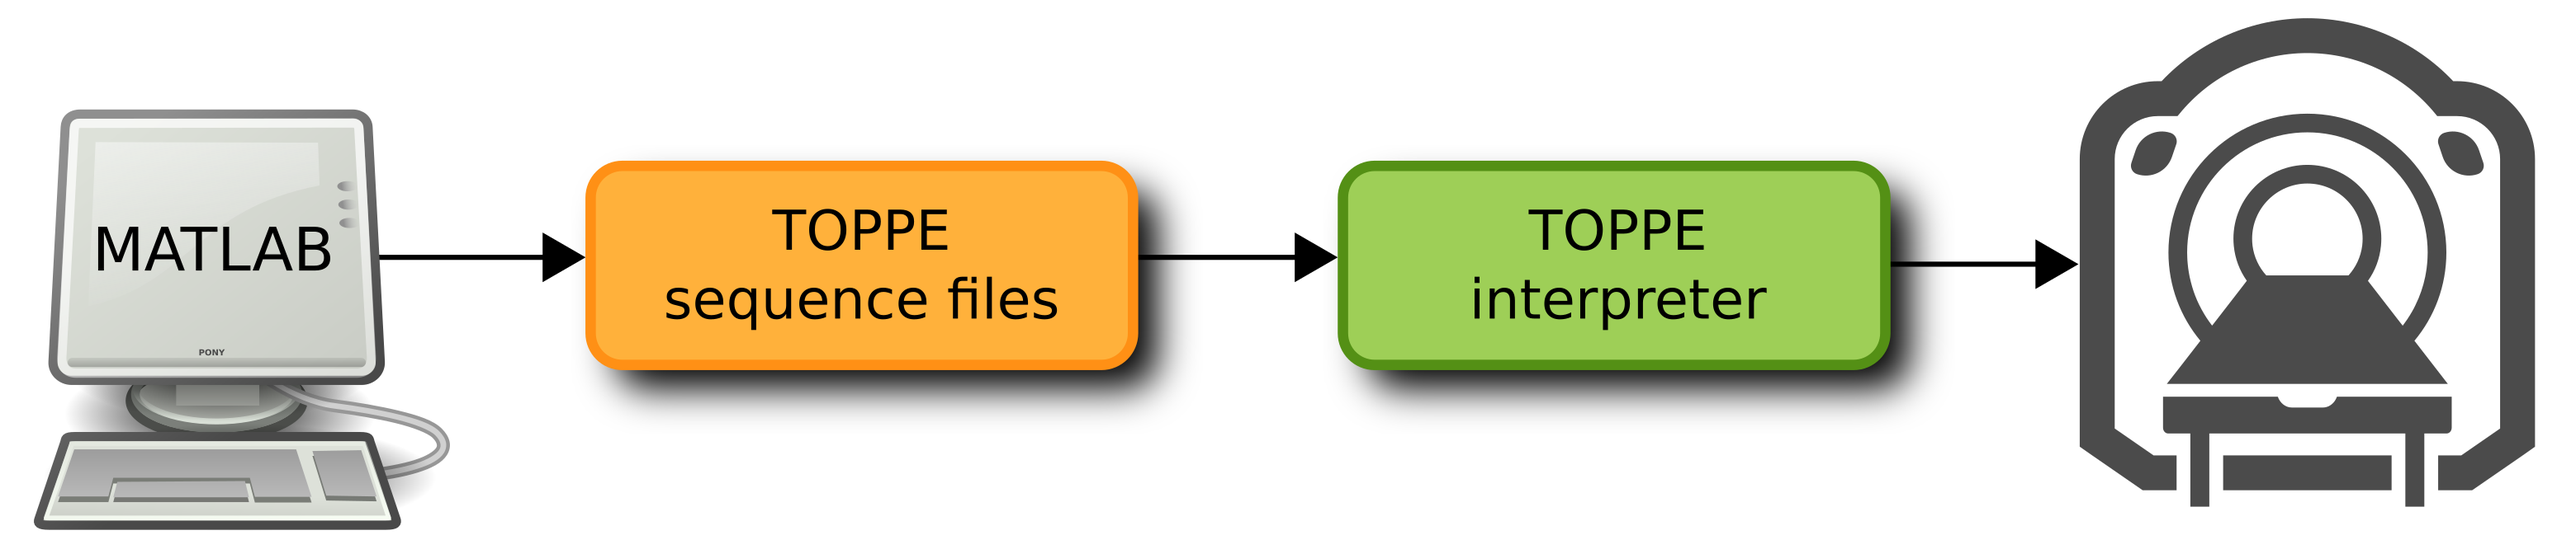
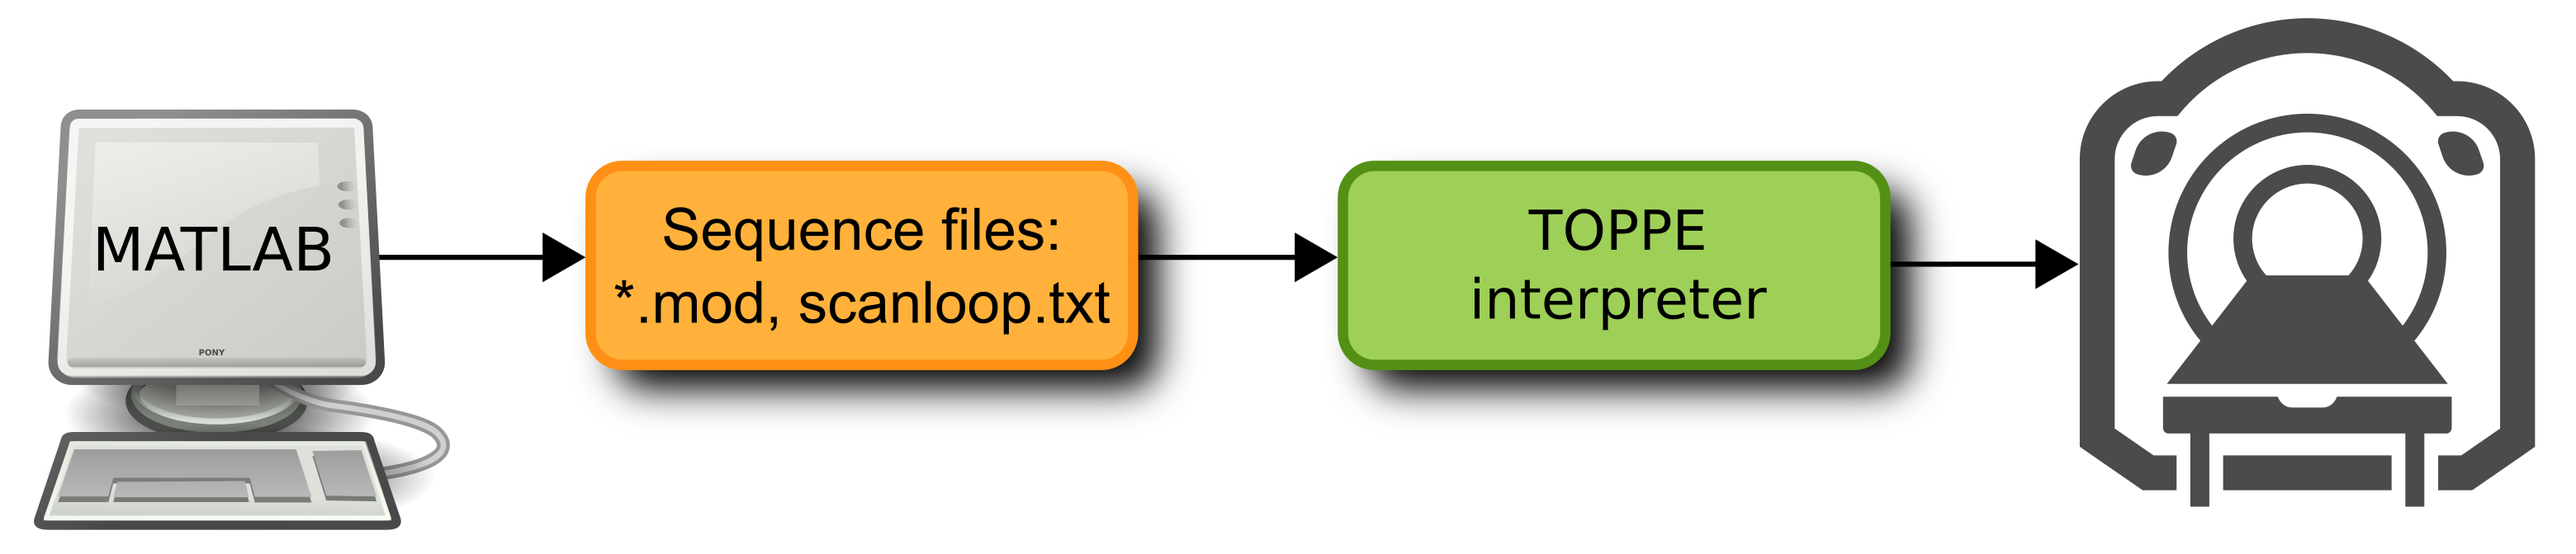
Changes to be committed: modified:   figs/workflow.png modified:   figs/workflow.svg modified:   index.md

Changed region(s): [[0.2176, 0.5, 0.4353, 0.5938], [0.2487, 0.375, 0.4042, 0.4688]]

diff --git a/index.md b/index.md
@@ -7,20 +7,25 @@ TOPPE is a simple, modular development environment for rapid prototyping of puls
 Working with TOPPE involves three basic steps:
 
 1. Use **MATLAB** to define the RF and gradient waveforms you want to play out on the scanner.
-1. Write each separate sequence block (or **module**) to a file using **'mat2mod.m'** (a script that is part of the TOPPE distribution), and create a file named **'scanloop.txt'** that specifies the order with which to play out the modules, and with what waveform amplitudes (orange box above). 
+1. Write each unique sequence block (or **module**) to a file using **'mat2mod.m'** (a script that is part of the TOPPE distribution), and create a file named **'scanloop.txt'** that specifies the order with which to play out the modules, and with what waveform amplitudes (orange box above). 
 1. Run the **TOPPE binary executable** (green box) which loads the files you created and executes the sequence on the scanner.
 
 
 ## Download MATLAB and EPIC source code
 
-TOPPE MATLAB code is open source and can be viewed here: [https://github.com/toppeMRI/toppe](https://github.com/toppeMRI/toppe).
+TOPPE **MATLAB code** is open source and can be viewed here: [https://github.com/toppeMRI/toppe](https://github.com/toppeMRI/toppe/matlab/).
 Alternatively, you can clone the github repository:
 
 ```
 git clone https://github.com/toppemri/toppe.github.io
 ```
 
-The TOPPE pulse sequence binary executable is written in 'EPIC' and is available to GE research sites at the GE collaboration forum: [https://collaborate.mr.gehealthcare.com/](https://collaborate.mr.gehealthcare.com/).
+The **TOPPE binary executable** is written in 'EPIC' and is available for download on the GE collaboration forum: [https://collaborate.mr.gehealthcare.com/](https://collaborate.mr.gehealthcare.com/).
+
+
+## Getting started
+
+The MATLAB code repository contains several complete pulse sequence examples, such as 3D spoiled gradient-echo (SPGR) and stack-of-spirals echo-shifted dynamic imaging (PRESTO fMRI).
 
 
 ## Using TOPPE as the GE interpreter for Pulseq (under development)
